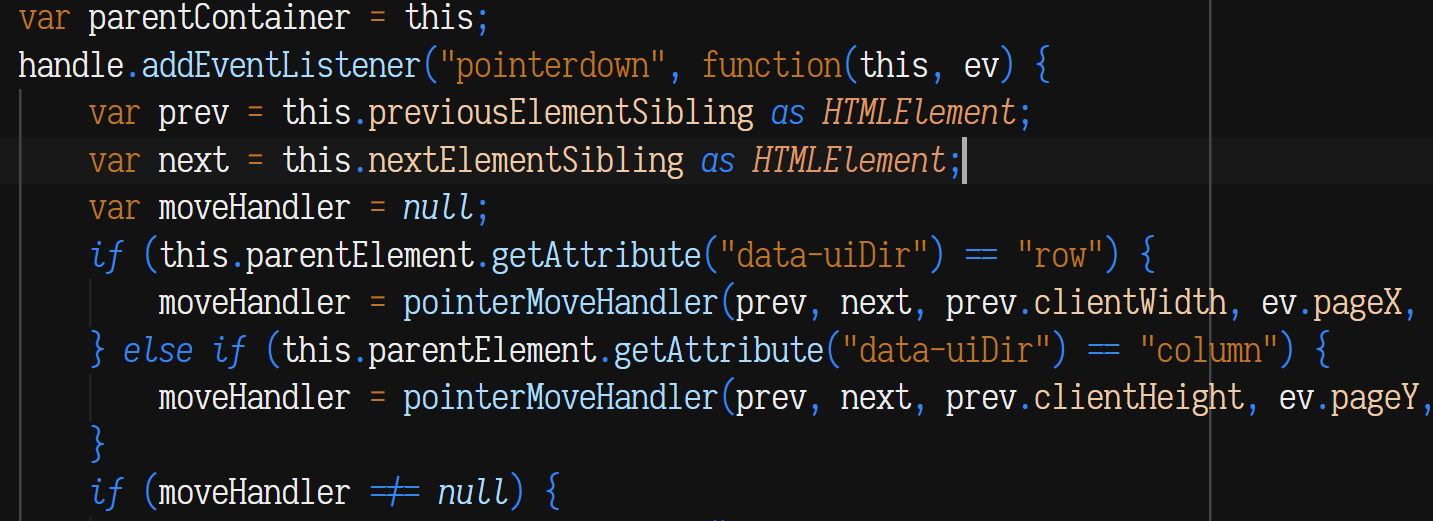
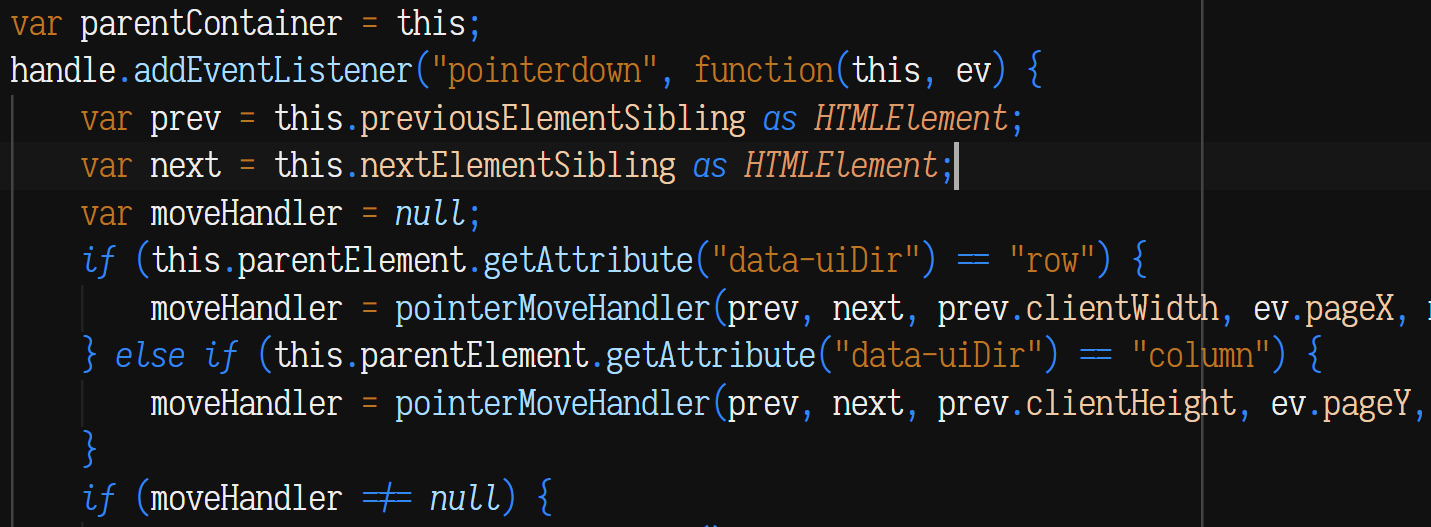
Add light theme, update readme, update screenshots

diff --git a/gulpfile.js b/gulpfile.js
@@ -2,11 +2,17 @@ var gulp = require('gulp');
 var fs = require('fs');
 var mustache = require('mustache');
 
-function scaleColorHex(color, percent) {
+function scaleColorHex(color, percent, invert) {
     // Convert from #RRGGBB to decimal values and scale
+    var target;
+    if (invert) {
+        target = 255;
+    } else {
+        target = 0;
+    }
     var channels = [];
     for (var i = 0; i < 3; i++) {
-        channels.push((parseInt(color.substr(1 + (i * 2),2), 16)) * percent | 0);
+        channels.push(((parseInt(color.substr(1 + (i * 2),2), 16) - target) * percent | 0) + target);
     }
     // Convert scaled values back to two-digit hex notation
     var out = "#";
@@ -24,21 +30,30 @@ function scaleColorHex(color, percent) {
 
 function build(done) {
     // Define color variants here
-    var palettes = ["standard", "colorblind", "miami"];
+    var palettes = ["standard", "colorblind", "miami", "light-standard"];
     var templateContent = fs.readFileSync("src/_template.json").toString();
     var shades = [75, 67, 50, 33, 25];
     palettes.forEach(currPalette => {
         // Parse current palette
         var paletteData = JSON.parse(fs.readFileSync(`src/${currPalette}.json`));
-        // Create the different shades of each color
-        var toShade = Object.keys(paletteData);
+        // Create "negative space" color
+        if (paletteData["negative"] === undefined) {
+            if (paletteData["type"] == "light") {
+                paletteData["negative"] = paletteData["b"];
+            } else {
+                paletteData["negative"] = "#000000";
+            }
+        }
+        // Create the different shades of each color. Detect which keys are
+        // colors by checking if the first character of the value is '#'.
+        var toShade = Object.keys(paletteData).filter(key => paletteData[key].charAt(0) == "#");
         toShade.forEach(hue => {
             shades.forEach(currShade => {
                 var keyName = hue + "-" + currShade;
                 // Don't overwrite existing values (allows you to specify something
                 // explicitly in the palette file)
                 if (paletteData[keyName] === undefined) {
-                    paletteData[keyName] = scaleColorHex(paletteData[hue], currShade / 100);
+                    paletteData[keyName] = scaleColorHex(paletteData[hue], currShade / 100, paletteData["type"] == "light");
                 }
             })
         })
@@ -51,6 +66,7 @@ function build(done) {
 };
 
 function watch() {
+    gulp.series(build)();
     gulp.watch('src/**/*.json', build);
 };
 

diff --git a/README.md b/README.md
@@ -1,9 +1,9 @@
 # Astronomy
-Astronomy is a dark, dichromatic color theme meant for keeping things
-straightforward and functional.
+Astronomy is a dichromatic color theme meant for keeping things straightforward
+and functional.
 
-Source code starts at neutral white, then shifts either warmer to represent
-value, or cooler to represent logic. The stronger the tint, the darker it gets.
+Source code starts at neutral, then shifts either warmer to represent value, or
+cooler to represent logic.
 
 Equations stay neutral with minimal variance, so separators like strings and
 brackets are the only things that stick out.
@@ -17,13 +17,35 @@ Also included is a red-green colorblind accessible version of this theme.
 
 ![Colorblind demonstration screenshot](images/colorblind.png)
 
-## Color Strategy
-* Logic-ish things are cooler
-* Value-ish things are warmer
-* The stronger the color, the darker it gets
-* Declarative things tend to be stronger
-* Equationy things tend to be neutral
+A light version is also available.
+
+![Light theme demonstration screenshot](images/light.png)
 
 ## Tips
 * Although *any* font is fine, the font featured in the screenshots is [Iosevka Slab](https://github.com/be5invis/Iosevka).
 * This theme works well with [Bracket Pair Colorizer 2](https://github.com/CoenraadS/Bracket-Pair-Colorizer-2).
+
+---------
+
+## Building
+Use the default gulp task to build the `xxx-color-theme.json` files which will be used by VS Code. Also available is a `watch` task which will automatically build the theme files whenever the template file or palette files are updated.
+
+To add a new theme to be built, modify the `palettes` variable in the `build` function in the gulpfile. Create a new palette file in the `src` directory, e.g. `xyz.json`. Then, add `xyz` as an entry in the `palettes` variable mentioned above. The output theme file will be `astronomy-xyz-color-theme.json` in the `themes` directory. Don't forget to update `package.json` to include the new theme, or else it won't appear as an option in VS Code.
+
+## Palette files
+Inside the `src` directory are several small JSON files containing some color definitions, which are then plugged into `_template.json` to create the output theme, which VS Code uses.
+
+* `name`: This populates the "name" field in the output theme file.
+* `type`: This populates the "type" field in the output theme file, and whether the type is "light" or not will alter how interpolated colors are generated (see below)
+* `v1`, `v2`, etc: These are the **value** tints. The higher the number, the stronger the tint.
+* `l1`, `l2`, etc: These are the **logic** tints. The higher the number, the stronger the tint.
+* `b`: This is the **background** color, used all over the UI.
+* `n`: This is the **neutral** color, used as the text color when there's no tinting, but also the foreground color for various UI elements.
+
+### Interpolated Colors
+Several extra colors are derived from the palette file during the build process, these are **interpolated colors**.
+
+* `v1-75`: This means color `v1` at `75%`. If the theme is dark, lower percentages darken the color. If the theme is light, lower percentages lighten the color. Currently, valid percentages are 25, 33, 50, 67, and 75.
+* `negative`: This color is either black if the theme is dark, or `b` if the theme is light. Its intended use is for negative space and dividers in the UI.
+
+You are free to override any interpolated colors by specifying them in the palette file directly. For example, defining `v1-25` in the palette file will override the auto-generated `v1-25`.

diff --git a/CHANGELOG.md b/CHANGELOG.md
@@ -1,12 +1,22 @@
 # Change Log
 
-## Unreleased
+# 0.3.0
+
+### Added
+- Light theme
 
 ### Modified
 - UI background/foreground colors now come from palette files
+- Palette files specify output theme's "name" property and "type" property
+- Color interpolator only processes values starting with '#' (won't try to
+interpolate "name" or "type", which aren't colors)
 
+### Notes
+- Background and foreground colors around the UI have changed very slightly as a
+side effect of switching to interpolated values instead of the hardcoded
+constants from before
 
-## 0.2.0
+# 0.2.0
 
 ### Added
 - Red-Green colorblind accessible theme
@@ -15,7 +25,7 @@
 - Themes are now built from template
 
 
-## 0.1.0
+# 0.1.0
 
 ### Added
 - Initial theming for UI
